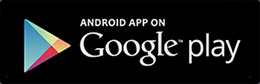
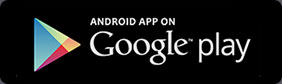
Новый текст рассылки, кнопки приложений одного размера, другая иконка для инстаграма

diff --git a/app/html/desktop/tasty__email-new-tasty.html b/app/html/desktop/tasty__email-new-tasty.html
@@ -34,7 +34,7 @@
 										<tbody>
 											<tr>
 												<td width="6%"><div style="line-height: 0;"><img width="100%" height="100%" border="0" src="images/email/1x1.gif" alt="" /></div></td>
-												<td><font color="#393939" style="font-family: Helvetica Neue, Helvetica, Lucida Grande, Tahoma, Verdana, Arial, sans-serif; font-size: 18px; line-height: 24px;">Тейсти – это уютное пространство для ведения дневника, которое появилось на свет в 2007 году. С тех пор почти ничего не менялось. Время идет и все развивается, у нас появляются новые устройства, интерфейсы адаптируются, мы все больше времени проводим в интернете. И тейсти решил не отставать. Итак, что же изменилось.</font></td>
+												<td><font color="#393939" style="font-family: Helvetica Neue, Helvetica, Lucida Grande, Tahoma, Verdana, Arial, sans-serif; font-size: 18px; line-height: 24px;">Тейсти – это уютное пространство для ведения дневника, которое появилось на свет в 2007 году. С тех пор почти ничего не менялось. Время идет, все развивается, у нас появляются новые устройства, интерфейсы адаптируются под новые требования, а мы все больше времени проводим в интернете. И тейсти решил не отставать. Итак, что же изменилось.</font></td>
 												<td width="6%"><div style="line-height: 0;"><img width="100%" height="100%" border="0" src="images/email/1x1.gif" alt="" /></div></td>
 											</tr>
 										</tbody>
@@ -218,10 +218,10 @@
 																	<tr>
 																		<td>
 																			<a href="https://itunes.apple.com/us/app/tejsti/id944944503?mt=8" title="Приложение для iOS" target="_blank" style="margin: 0 12px 12px 0; display: inline-block; line-height: 0; text-decoration: none;">
-																				<img width="142" height="42" border="0" src="images/email/apps/ios.jpg" alt="Приложение для iOS" />
+																				<img width="141" height="42" border="0" src="images/email/apps/ios.jpg" alt="Приложение для iOS" />
 																			</a>
 																			<a href="https://play.google.com/store/apps/details?id=ru.taaasty&hl=ru" title="Приложение для Android" target="_blank" style="margin: 0 0 12px 0; display: inline-block; line-height: 0; text-decoration: none;">
-																				<img width="130" height="42"  border="0" src="images/email/apps/android.jpg" alt="Приложение для Android" />
+																				<img width="141" height="42"  border="0" src="images/email/apps/android.jpg" alt="Приложение для Android" />
 																			</a>
 																		</td>
 																	</tr>
@@ -252,19 +252,19 @@
 														</center>
 													</div>
 													<div style="padding: 0 0 20px 0;">
-														<font color="#393939" style="font-family: Helvetica Neue, Helvetica, Lucida Grande, Tahoma, Verdana, Arial, sans-serif; font-size: 18px; line-height: 24px;">У проекта появился инвестор и постоянная команда программистов, поэтому мы не останавливаемся на достигнутом и вот наш план на ближайшее время</font>
+														<font color="#393939" style="font-family: Helvetica Neue, Helvetica, Lucida Grande, Tahoma, Verdana, Arial, sans-serif; font-size: 18px; line-height: 24px;">У проекта появился инвестор и постоянная команда программистов, поэтому мы не останавливаемся на достигнутом и вот наш план на ближайшее время:</font>
 													</div>
 													<div style="padding: 0 0 20px 0;">
-														<font color="#393939" style="font-family: Helvetica Neue, Helvetica, Lucida Grande, Tahoma, Verdana, Arial, sans-serif; font-size: 18px; line-height: 24px;"><strong>Тематические потоки</strong><br /> Мы уже все устали от прямого эфира, лучшее не всегда на самом деле лучшее. А хочется видеть только то, что инетересно. Для этого мы хотим сделать тематические потоки, где уже вы сами сможете решать что показывать в ленте, а что нет.</font>
+														<font color="#393939" style="font-family: Helvetica Neue, Helvetica, Lucida Grande, Tahoma, Verdana, Arial, sans-serif; font-size: 18px; line-height: 24px;"><strong>Тематические потоки</strong><br /> Мы уже все устали от прямого эфира, а «лучшее» не всегда на самом деле лучшее. Всем нам хочется видеть только то, что инетересно. Для этого мы хотим сделать тематические потоки, где уже вы сами сможете решать что показывать в ленте, а что нет.</font>
 													</div>
 													<div style="padding: 0 0 20px 0;">
-														<font color="#393939" style="font-family: Helvetica Neue, Helvetica, Lucida Grande, Tahoma, Verdana, Arial, sans-serif; font-size: 18px; line-height: 24px;"><strong>Мобильная версия сайта</strong><br /> Каждый пятый заходит на тейсти с мобильного телефона, а наш сайт до сих пор не адатирован для маленьких экранов, совсем скоро мы это исправим</font>
+														<font color="#393939" style="font-family: Helvetica Neue, Helvetica, Lucida Grande, Tahoma, Verdana, Arial, sans-serif; font-size: 18px; line-height: 24px;"><strong>Мобильная версия сайта</strong><br /> Каждый пятый заходит на тейсти с мобильного телефона, а наш сайт до сих пор не адатирован для экранов телефонов и планшетов, совсем скоро мы это исправим</font>
 													</div>
 													<div style="padding: 0 0 20px 0;">
-														<font color="#393939" style="font-family: Helvetica Neue, Helvetica, Lucida Grande, Tahoma, Verdana, Arial, sans-serif; font-size: 18px; line-height: 24px;"><strong>Расширенные настройки дизайна дневника</strong><br /> Сейчас настройки довольно скудные, однако позволяют создать правильное настроение дневника. Мы планируем добавить больше шрифтов, цветов ленты, возможность выбора размеров и так далее.</font>
+														<font color="#393939" style="font-family: Helvetica Neue, Helvetica, Lucida Grande, Tahoma, Verdana, Arial, sans-serif; font-size: 18px; line-height: 24px;"><strong>Расширенные настройки дизайна дневника</strong><br /> Сейчас настройки дизайна довольно аскетичные, однако позволяют создать определенное настроение дневника. Мы планируем добавить больше шрифтов, цветов ленты, возможность выбора размеров и так далее.</font>
 													</div>
 													<div style="padding: 0 0 20px 0;">
-														<font color="#393939" style="font-family: Helvetica Neue, Helvetica, Lucida Grande, Tahoma, Verdana, Arial, sans-serif; font-size: 18px; line-height: 24px;"><strong>Стикеры для вашего профиля</strong><br /> Тейсти – это фан, но профиль человека довольно скучное зрелище. Мы хотим это исправить и дать возмжность выбирать и дарить стикеры для профиля. конечно, вы сами решаете хотите вы этого иди нет.</font>
+														<font color="#393939" style="font-family: Helvetica Neue, Helvetica, Lucida Grande, Tahoma, Verdana, Arial, sans-serif; font-size: 18px; line-height: 24px;"><strong>Стикеры для вашего профиля</strong><br /> Тейсти – это не только истории о несчастной любви, но и фан. А профиль человека, при этом, довольно скучное зрелище. Мы хотим это исправить и дать возможность выбирать или дарить стикеры для профиля. Конечно, вы сами решаете хотите вы этого или нет.</font>
 													</div>
 												</td>
 												<td width="6%"><div style="line-height: 0;"><img width="100%" height="100%" border="0" src="images/email/1x1.gif" alt="" /></div></td>
@@ -283,7 +283,7 @@
 													<table width="100%" cellspacing="0" cellpadding="0" border="0" style="text-align: center;">
 														<tbody>
 															<tr>
-																<td><div style="line-height: 0;"><img width="100%" height="80" border="0" src="images/email/1x1.gif" alt="" /></div></td>
+																<td><div style="line-height: 0;"><img width="100%" height="60" border="0" src="images/email/1x1.gif" alt="" /></div></td>
 															</tr>
 															<tr>
 																<td>
@@ -301,7 +301,7 @@
 																</td>
 															</tr>
 															<tr>
-																<td><div style="line-height: 0;"><img width="100%" height="60" border="0" src="images/email/1x1.gif" alt="" /></div></td>
+																<td><div style="line-height: 0;"><img width="100%" height="50" border="0" src="images/email/1x1.gif" alt="" /></div></td>
 															</tr>
 															<tr>
 																<td>
@@ -356,8 +356,16 @@
 																<td><div style="line-height: 0;"><img width="100%" height="20" border="0" src="images/email/1x1.gif" alt="" /></div></td>
 															</tr>
 															<tr>
-																<td style="line-height: 16px;">
-																	<span style="font-size: 12px; line-height: 16px;"><font color="#393939" style="font-family: Helvetica Neue, Helvetica, Lucida Grande, Tahoma, Verdana, Arial, sans-serif; font-size: 12px; line-height: 16px;">Вы получили это письмо, потому что зарегистрировались на Тейсти<br /> и согласились получать промо-письма. вы всегда можете <a href="#" title="отписаться от рассылки" target="_blank" style="color: #393939; white-space: nowrap;">отписаться от рассылки</a></font></span>
+																<td>
+																	<table width="80%" align="center" cellspacing="0" cellpadding="0" border="0" style="line-height: 16px;">
+																		<tbody>
+																			<tr>
+																				<td>
+																					<span style="font-size: 12px; line-height: 16px;"><font color="#393939" style="font-family: Helvetica Neue, Helvetica, Lucida Grande, Tahoma, Verdana, Arial, sans-serif; font-size: 12px; line-height: 16px;">Вы получили это письмо, потому что зарегистрировались на Тейсти и&nbsp;согласились&nbsp;получать промо-письма. вы всегда можете <a href="#" title="отписаться от рассылки" target="_blank" style="color: #393939; white-space: nowrap;">отписаться от рассылки</a></font></span>
+																				</td>
+																			</tr>
+																		</tbody>
+																	</table>
 																</td>
 															</tr>
 															<tr>
